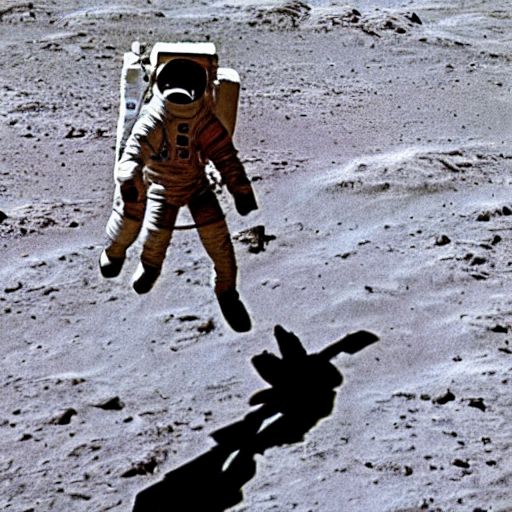
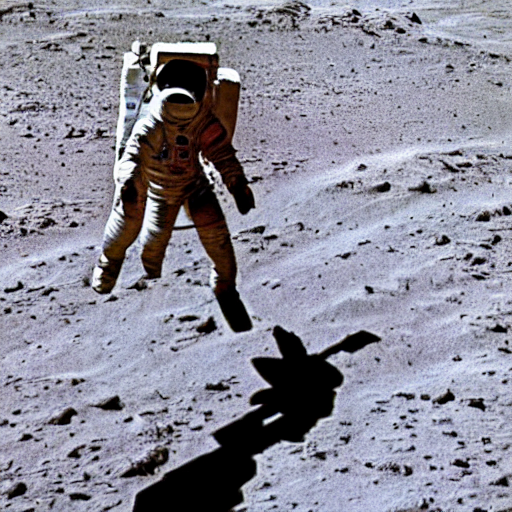
Added flax Karras equivalent scheduler

diff --git a/flax_diffusion/flax_test_sd.py b/flax_diffusion/flax_test_sd.py
@@ -5,19 +5,30 @@ from flax.training.common_utils import shard
 import matplotlib.pyplot as plt
 import time
 from diffusers import FlaxStableDiffusionPipeline
+from diffusers import FlaxDPMSolverMultistepScheduler
 
 # Memory management config
 jax.config.update('jax_platform_name', 'gpu')
 print(f"Default device for inference: {jax.default_backend()}")  
 
+# Configure DPM Solver with Karras noise schedule
+scheduler, scheduler_state = FlaxDPMSolverMultistepScheduler.from_pretrained(
+    "CompVis/stable-diffusion-v1-4",
+    subfolder="scheduler",
+)
+scheduler.config.use_karras_sigmas = True 
+
+# Load SD pipeline with the configured scheduler
 pipeline, params = FlaxStableDiffusionPipeline.from_pretrained(
     "CompVis/stable-diffusion-v1-4",
+    scheduler=scheduler,
     revision="bf16",
     dtype=jax.numpy.bfloat16
 )
+params["scheduler"] = scheduler_state 
 
+# Config experiment
 prompt = "a photo of an astronaut riding a horse on mars"
-
 prng_seed = jax.random.PRNGKey(0)
 num_inference_steps = 50
 

diff --git a/flax_diffusion/readme.md b/flax_diffusion/readme.md
@@ -10,4 +10,4 @@ The following instructions will guide you to run StableDiffusion1.4 using Jax/Fl
 2. Install Cuda Toolkit for WSL Ubuntu [here](https://developer.nvidia.com/cuda-downloads?target_os=Linux&target_arch=x86_64&Distribution=WSL-Ubuntu&target_version=2.0&target_type=deb_network).
 
 ## Getting started
-1. Make sure the following code works by running `python flax_test_sd.py`, this will download StableDiffusion1.4 and test one inference sample using GPU.
+1. Make sure the following code works by running `python flax_test_sd.py`, this will download StableDiffusion1.4 and generate one inference sample using the device's GPU.
